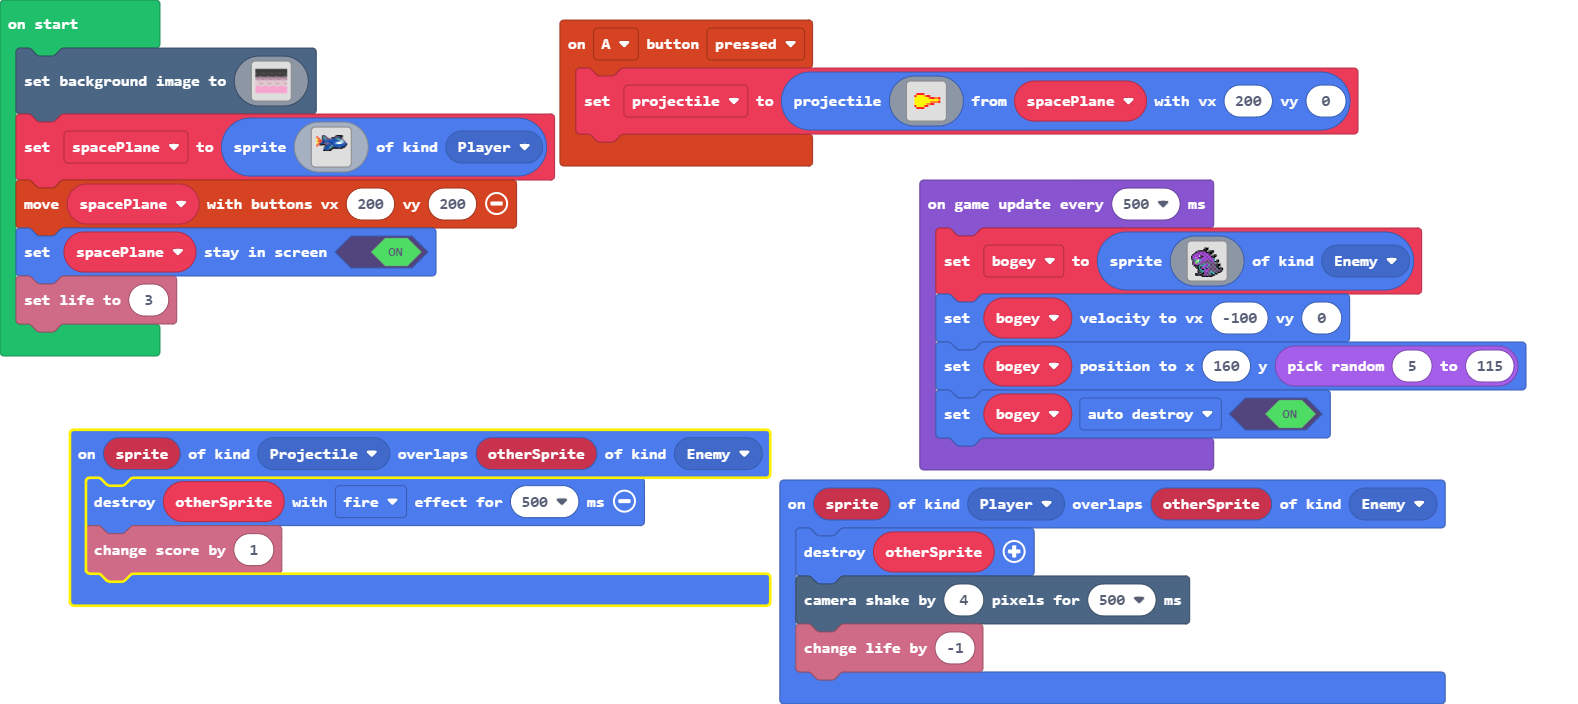
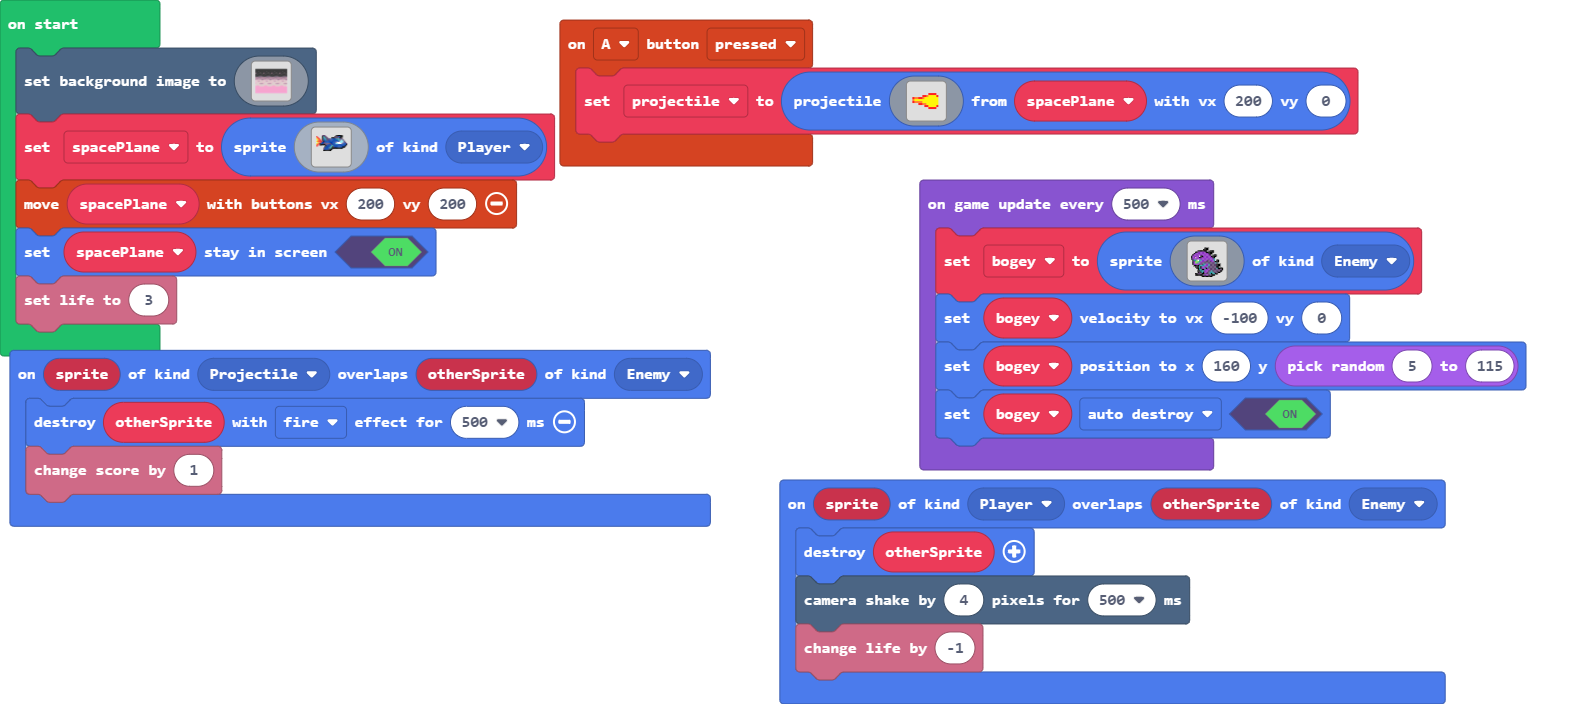
changed direction of projectile

Changed region(s): [[0.0, 0.4688, 0.4968, 0.875], [0.5589, 0.125, 0.621, 0.1562]]

diff --git a/main.ts b/main.ts
@@ -4,14 +4,14 @@ controller.A.onEvent(ControllerButtonEvent.Pressed, function () {
         . . . . . . . . . . . . . . . . 
         . . . . . . . . . . . . . . . . 
         . . . . . . . . . . . . . . . . 
-        . . . 2 2 2 2 . . . . . . . . . 
-        . . 2 5 5 5 5 4 2 2 . . . . . . 
-        . . 5 5 5 5 5 5 5 4 2 2 4 4 2 . 
-        . . 5 5 5 5 5 5 5 5 5 5 5 5 4 . 
-        . . 5 5 5 5 5 5 5 5 4 4 4 4 2 . 
-        . . 5 5 5 5 5 5 4 4 2 2 . . . . 
-        . . 2 5 5 5 5 2 2 . . . . . . . 
-        . . . 2 2 2 2 . . . . . . . . . 
+        . . . . . . . . . 2 2 2 2 . . . 
+        . . . . . . 2 2 4 5 5 5 5 2 . . 
+        . 2 4 4 2 2 4 5 5 5 5 5 5 5 . . 
+        . 4 5 5 5 5 5 5 5 5 5 5 5 5 . . 
+        . 2 4 4 4 4 5 5 5 5 5 5 5 5 . . 
+        . . . . 2 2 4 4 5 5 5 5 5 5 . . 
+        . . . . . . . 2 2 5 5 5 5 2 . . 
+        . . . . . . . . . 2 2 2 2 . . . 
         . . . . . . . . . . . . . . . . 
         . . . . . . . . . . . . . . . . 
         . . . . . . . . . . . . . . . . 
